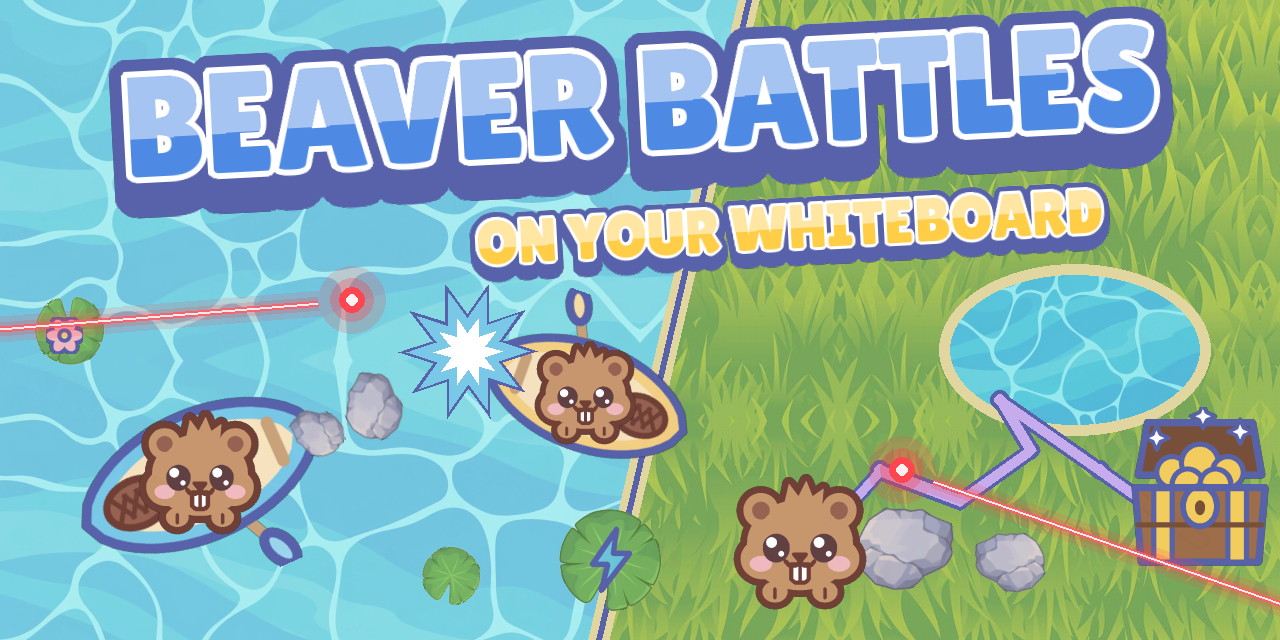
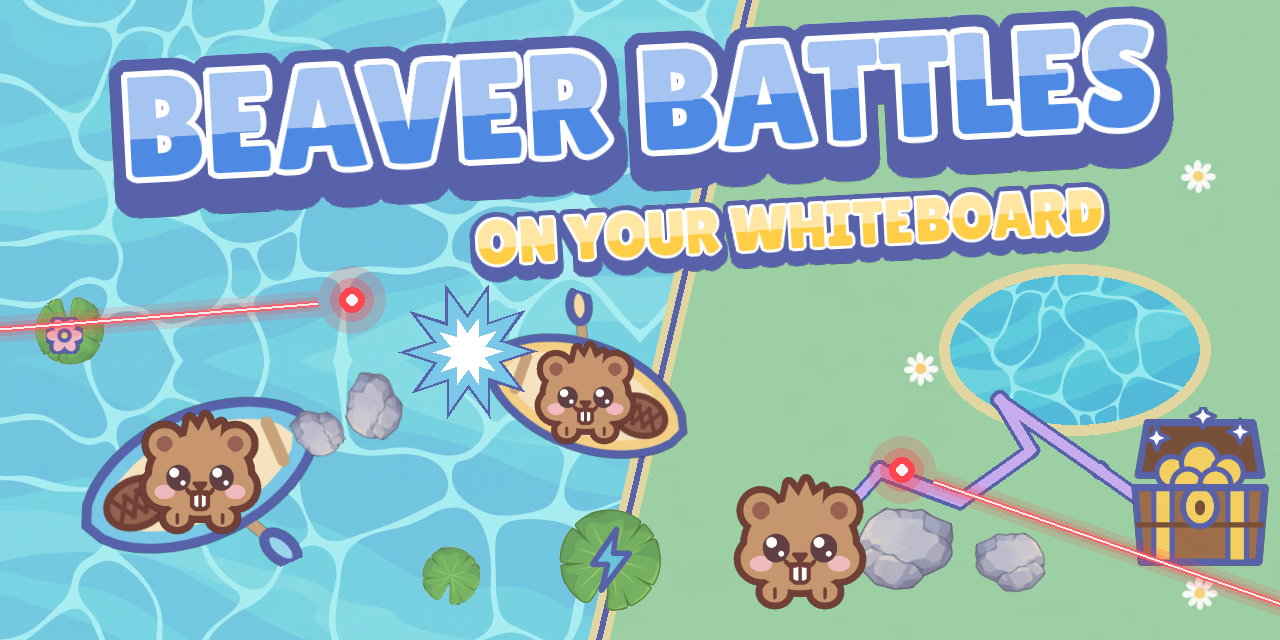
Daisy meadow background, and sparse red berries
The Treasure Dash ground is now the daisy meadow image, shown whole rather
than tiled and washed 35% toward white for a lighter green ([treasure]
grass_wash). It replaces the earlier grass picture, which looked like stock
art and is removed from the repo. The thumbnail and menu cards use it too.

Berries are red and sparse: one sprig per cluster instead of three, and Deer
Park has three clusters, not five. Saturated red is what vision.py reads as a
laser dot, so [treasure] berry_color = "blue" is there for the real board if
red berries turn out to confuse laser tracking.

Changed region(s): [[0.4688, 0.0, 1.0, 1.0]]

diff --git a/beaver_battle/treasure.py b/beaver_battle/treasure.py
@@ -48,7 +48,7 @@ SOLO_BOARDS = [
      "ponds": [(.50, .08, .07, .14), (.47, .26, .085, .16), (.52, .46, .095, .17), (.48, .66, .09, .17), (.53, .86, .08, .17),
                (.28, .86, .11, .10), (.38, .90, .09, .08), (.74, .14, .10, .09)],
      "portals": [((.30, .20), (.70, .88))]},
-    {"name": "DEER PARK", "whole": True, "deer": 6, "boosts": 5,
+    {"name": "DEER PARK", "whole": True, "deer": 6, "boosts": 3,
      "rocks": [(.22, .30, .035), (.30, .74, .035), (.52, .16, .04), (.70, .76, .035), (.80, .32, .035)],
      "ponds": [(.50, .52, .15, .21), (.40, .40, .10, .14), (.60, .66, .11, .15), (.50, .80, .07, .13), (.50, .95, .06, .10),
                (.30, .30, .07, .08), (.72, .50, .08, .07)]},
@@ -315,8 +315,9 @@ class Treasure:
         for index in range(self.board.get("boosts", self.setting("boost_clusters", 2)) * half):
             point, angle = spot(30 * unit), rng.uniform(0, math.tau)
             if point is not None:
-                for step in (-1, 0, 1):
-                    token = point + pygame.Vector2(math.cos(angle), math.sin(angle)) * step * 30 * unit
+                count = self.setting("berries_per_cluster", 1)
+                for step in range(count):
+                    token = point + pygame.Vector2(math.cos(angle), math.sin(angle)) * (step - (count - 1) / 2) * 30 * unit
                     self.boosts += [[twin, True] for twin in twins(token)]
         for index in range(self.board.get("deer", self.setting("deer", 2))):
             point = spot(30 * unit, everywhere=True, dry=True)
@@ -680,7 +681,8 @@ class Treasure:
     def ground(self):
         """Grass everywhere, the water wallpaper inside the ponds with a bank around them, and the rocks."""
         unit = self.scale
-        surface = sprites.tiled_ground("grass.jpg", self.width, self.height, round(330 * unit), lighten=.12)
+        # The daisy meadow, shown whole rather than tiled, and washed toward white for a lighter green.
+        surface = sprites.tiled_ground("grass.jpg", self.width, self.height, self.width, lighten=self.setting("grass_wash", .35))
         pond = sprites.tiled_ground("water.jpg", self.width, self.height, round(620 * unit), lighten=.18)
         mask = self.water.astype(np.uint8) * 255
         bank = cv2.dilate(mask, cv2.getStructuringElement(cv2.MORPH_ELLIPSE, (round(18 * unit) | 1, round(18 * unit) | 1)))
@@ -723,7 +725,7 @@ class Treasure:
                     angle = self.clock * 3.2 + spoke * math.tau / 3
                     pygame.draw.circle(frame, sprites.INK, end + pygame.Vector2(math.cos(angle), math.sin(angle)) * 18 * unit, 5 * unit)
                     pygame.draw.circle(frame, sprites.WHITE, end + pygame.Vector2(math.cos(angle), math.sin(angle)) * 18 * unit, 3 * unit)
-        token = self.sprite(("token",), lambda: sprites.berries(17 * unit))
+        token = self.sprite(("token",), lambda: sprites.berries(17 * unit, color=self.setting("berry_color", "red")))
         for index, (place, alive) in enumerate(self.boosts):
             if alive:
                 frame.blit(token, token.get_rect(center=place + pygame.Vector2(0, 3 * unit * math.sin(self.clock * 5 + index))))

diff --git a/beaver_battle/sprites.py b/beaver_battle/sprites.py
@@ -706,20 +706,22 @@ def timber(length, width, zoom=1, seed=0):
     return pygame.transform.smoothscale(surface, (max(1, size[0] // SS), max(1, size[1] // SS)))
 
 
-BERRY = (132, 112, 214)
-BERRY_DARK = (96, 84, 176)
+BERRY = {"red": ((226, 72, 86), (160, 40, 58)), "blue": ((132, 112, 214), (96, 84, 176))}
 
 
-def berries(size, zoom=1):
-    """A sprig of blueberries: eat them for a burst of speed. (Blue, not red: the camera takes red for a laser.)"""
+def berries(size, zoom=1, color="red"):
+    """A sprig of berries: eat them for a burst of speed.
+
+    Red is what was asked for and reads best on grass, but the camera takes saturated red for a laser dot
+    (vision.py: red >= 160 and red - max(green, blue) >= 60). If berries confuse laser tracking on the real
+    board, set [treasure] berry_color = "blue".
+    """
+    fill, edge = BERRY[color]
     pen = Pen(44, 44, size * zoom / 14, zoom)
     pen.stroke([(-2, -15), (0, -8), (4, -14)], LEAF_DARK, 1.6, closed=False)
     pen.ellipse(LEAF, (8, -13), 7, 3.6, -.5, LEAF_DARK, 1.2)
     pen.ellipse(LEAF, (-8, -13), 6, 3.2, .6, LEAF_DARK, 1.2)
     for x, y, r in ((-7, 2, 8), (7, 1, 8.5), (0, 10, 8)):
-        pen.ellipse(BERRY, (x, y), r, outline=BERRY_DARK, width=1.4)
-        pen.ellipse(tint(BERRY, .55), (x - r * .35, y - r * .35), r * .3, outline=None)
-        for spoke in range(5):
-            angle = spoke * math.tau / 5 + .3
-            pen.line(BERRY_DARK, (x + r * .15 + 1.8 * math.cos(angle), y + r * .2 + 1.8 * math.sin(angle)), (x + r * .15, y + r * .2), .8)
+        pen.ellipse(fill, (x, y), r, outline=edge, width=1.4)
+        pen.ellipse(tint(fill, .6), (x - r * .35, y - r * .35), r * .3, outline=None)
     return pen.image()

diff --git a/beaver_battle/app.py b/beaver_battle/app.py
@@ -291,7 +291,7 @@ def main():
             pygame.draw.rect(screen, sprites.BLUE, card.inflate(20 if picked else 10, 20 if picked else 10), border_radius=40)
             pygame.draw.rect(screen, sprites.WHITE, card, border_radius=34)
             scene = pygame.Rect(card.x + 22, card.y + 22, card.width - 44, 210)
-            view = sprites.tiled_ground(ground, scene.width, scene.height, 300, lighten=.35 if index == 0 else .1)
+            view = sprites.tiled_ground(ground, scene.width, scene.height, 300 if index == 0 else 900, lighten=.35)
             if index == 0:
                 for place, color, turn in (((120, 110), sprites.PLAYER_COLORS[0], 20), ((330, 95), sprites.PLAYER_COLORS[1], 165)):
                     boat = pygame.transform.rotozoom(sprites.canoe(18, color, 1.5), -turn, 1)

diff --git a/checks/build_assets.py b/checks/build_assets.py
@@ -54,8 +54,7 @@ def textures():
     # Treasure Dash logs keep nearly all of the bark's colour: a log is a blocker there, so it does not
     # matter if the camera takes its darkest cracks for ink.
     cv2.imwrite(str(ROOT / "bark_rich.jpg"), lift(cv2.imread(str(ROOT / "source/bark.webp")), 34), [cv2.IMWRITE_JPEG_QUALITY, 92])
-    grass = cv2.imread(str(ROOT / "source/grass.png"))
-    cv2.imwrite(str(ROOT / "grass.jpg"), grass[10:-10, 10:-10], [cv2.IMWRITE_JPEG_QUALITY, 90])
+    cv2.imwrite(str(ROOT / "grass.jpg"), cv2.imread(str(ROOT / "source/meadow.webp")), [cv2.IMWRITE_JPEG_QUALITY, 92])
     cv2.imwrite(str(ROOT / "water.jpg"), cv2.imread(str(ROOT / "source/water.webp")), [cv2.IMWRITE_JPEG_QUALITY, 90])
 
 

diff --git a/checks/make_thumbnail.py b/checks/make_thumbnail.py
@@ -44,7 +44,7 @@ def main():
     blue, yellow, purple = sprites.PLAYER_COLORS
     image = sprites.tiled_ground("water.jpg", WIDTH, HEIGHT, 640, lighten=.3)
     # The meadow of Treasure Dash comes in on a slant from the right.
-    meadow = sprites.tiled_ground("grass.jpg", WIDTH, HEIGHT, 420, lighten=.08)
+    meadow = sprites.tiled_ground("grass.jpg", WIDTH, HEIGHT, WIDTH, lighten=.3)
     mask = pygame.Surface((WIDTH, HEIGHT), pygame.SRCALPHA)
     shore = [(760, 0), (WIDTH, 0), (WIDTH, HEIGHT), (610, HEIGHT)]
     pygame.draw.polygon(mask, (255, 255, 255, 255), shore)
